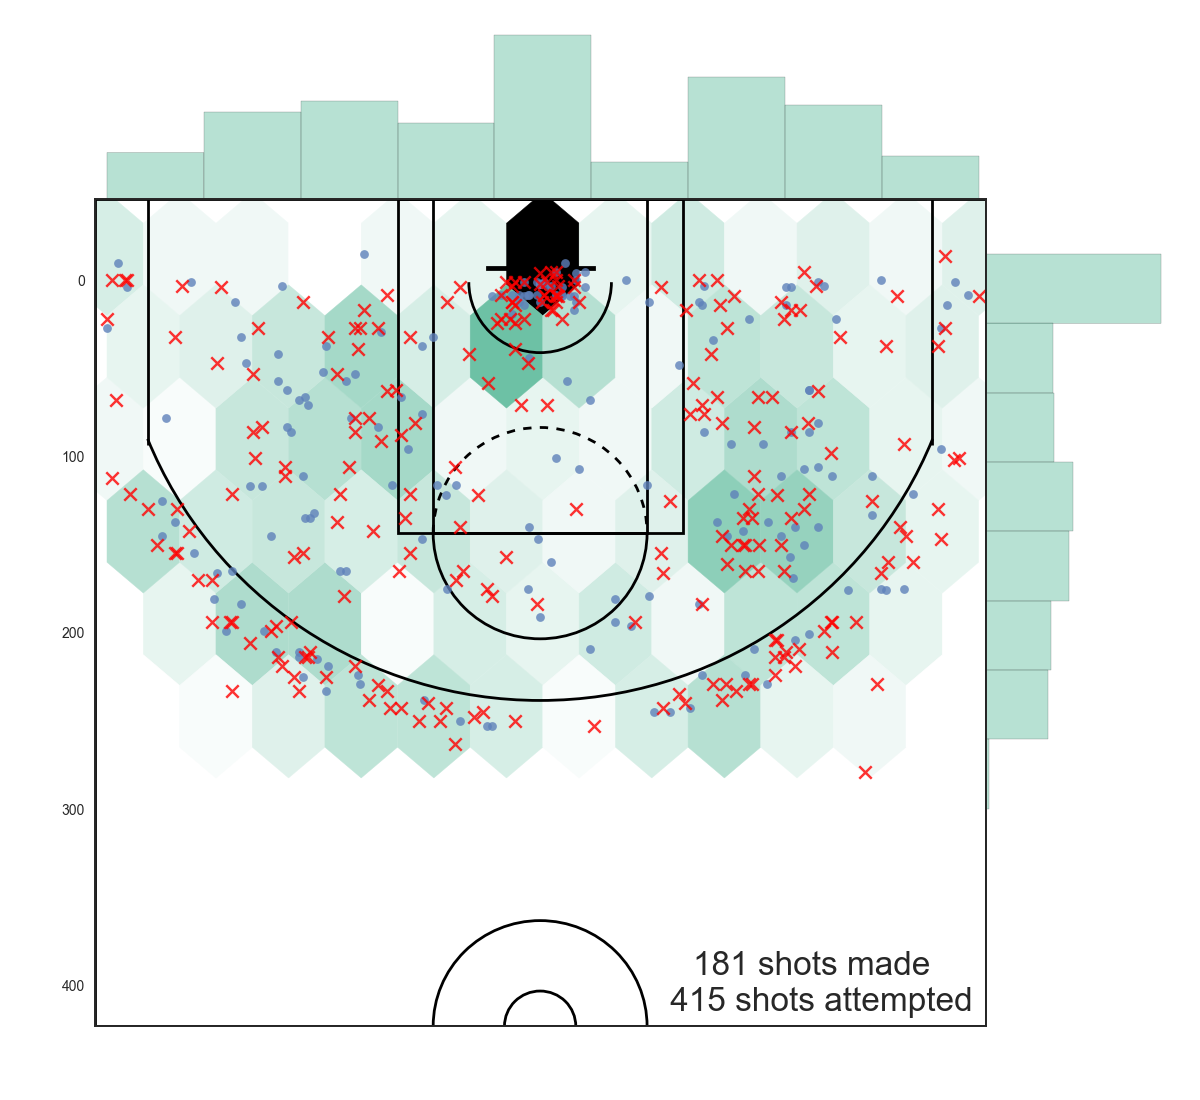
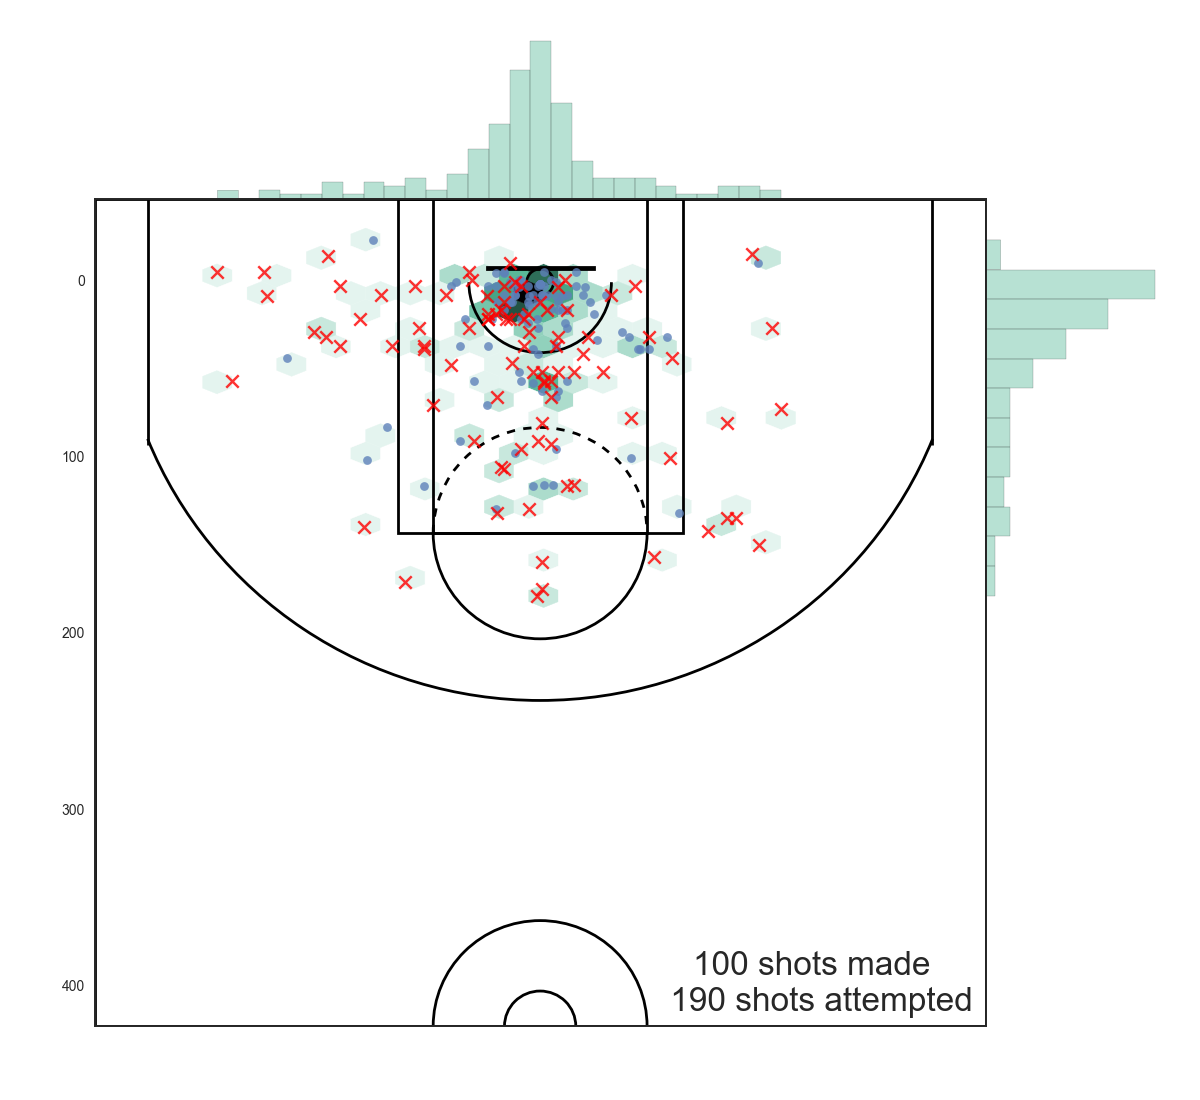
added jimmy butler's shot chart for readme

Changed region(s): [[0.0617, 0.0309, 0.9867, 0.7109], [0.555, 0.8655, 0.6475, 0.9273], [0.7708, 0.4018, 0.8017, 0.4327]]

diff --git a/grapher.py b/grapher.py
@@ -53,7 +53,7 @@ class Grapher():
 
 	def makeGraph(self, xCoordinates, yCoordinates, madeX, madeY, missedX, missedY):
 
-		fileName = 'static/temp.png'
+		fileName = 'static/jimmybutler.png'
 		# cmap=plt.cm.gist_heat_r color=cmap(.2), cmap=cmap
 		cmap=plt.cm.Blues
 		sns.set(style='white')

diff --git a/README.md b/README.md
@@ -1,3 +1,23 @@
 # NBAshotchart
 
 Visualizing shots taken by NBA players aka a shot chart.
+
+# Getting Started
+
+Either visit the website here (coming soon) or clone this repo. 
+    
+    git clone https://github.com/jbkuczma/NBAshotchart.git && cd NBAshotchart
+    
+    (Optional virutal environment): 
+        virtualenv -p python3 venv
+        source venv/bin/activate
+        
+    pip install -r requirements.txt
+    
+    flask run
+
+# Example Shot Chart
+
+This is Jimmy Butler's shot chart as of December 14, 2016.
+![Shot Chart](https://github.com/jbkuczma/NBAshotchart/blob/master/static/jimmybutler.png?raw=true)
+    
